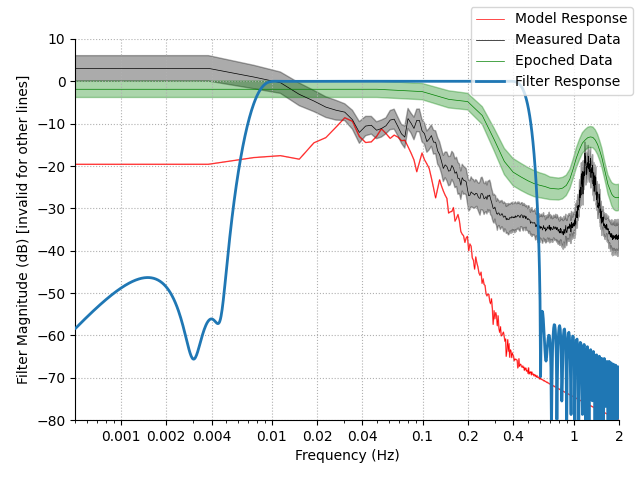
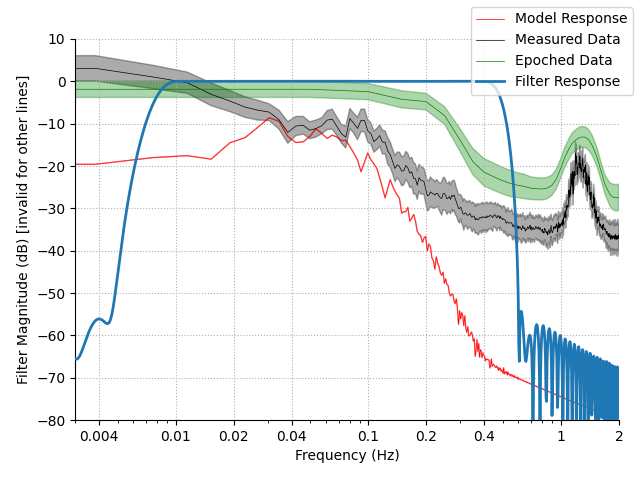
Update documentation

diff --git a/searchindex.js b/searchindex.js
@@ -1,1 +1,1 @@
-Search.setIndex({docnames:["api","auto_examples/index","auto_examples/plot_10_hrf","auto_examples/plot_20_cui","auto_examples/plot_30_frequency_summary","auto_examples/sg_execution_times","generated/mne_nirs.experimental_design.create_boxcar","generated/mne_nirs.experimental_design.create_first_level_design_matrix","generated/mne_nirs.signal_enhancement.enhance_negative_correlation","generated/mne_nirs.statistics.run_GLM","generated/mne_nirs.visualisation.plot_GLM_topo","generated/mne_nirs.visualisation.plot_nirs_source_detector","index"],envversion:{"sphinx.domains.c":1,"sphinx.domains.changeset":1,"sphinx.domains.citation":1,"sphinx.domains.cpp":1,"sphinx.domains.index":1,"sphinx.domains.javascript":1,"sphinx.domains.math":2,"sphinx.domains.python":1,"sphinx.domains.rst":1,"sphinx.domains.std":1,"sphinx.ext.intersphinx":1,"sphinx.ext.viewcode":1,sphinx:56},filenames:["api.rst","auto_examples/index.rst","auto_examples/plot_10_hrf.rst","auto_examples/plot_20_cui.rst","auto_examples/plot_30_frequency_summary.rst","auto_examples/sg_execution_times.rst","generated/mne_nirs.experimental_design.create_boxcar.rst","generated/mne_nirs.experimental_design.create_first_level_design_matrix.rst","generated/mne_nirs.signal_enhancement.enhance_negative_correlation.rst","generated/mne_nirs.statistics.run_GLM.rst","generated/mne_nirs.visualisation.plot_GLM_topo.rst","generated/mne_nirs.visualisation.plot_nirs_source_detector.rst","index.rst"],objects:{"mne_nirs.experimental_design":{create_boxcar:[6,1,1,""],create_first_level_design_matrix:[7,1,1,""]},"mne_nirs.signal_enhancement":{enhance_negative_correlation:[8,1,1,""]},"mne_nirs.statistics":{run_GLM:[9,1,1,""]},"mne_nirs.visualisation":{plot_GLM_topo:[10,1,1,""],plot_nirs_source_detector:[11,1,1,""]},mne_nirs:{experimental_design:[0,0,0,"-"],signal_enhancement:[0,0,0,"-"],statistics:[0,0,0,"-"],visualisation:[0,0,0,"-"]}},objnames:{"0":["py","module","Python module"],"1":["py","function","Python function"]},objtypes:{"0":"py:module","1":"py:function"},terms:{"0mb":2,"0x7f949b024e50":2,"1200x700":2,"120e":4,"1e6":2,"1mb":2,"2mb":2,"3mb":2,"49m":2,"5dbf84a9cfc96c000ec957eb":2,"5mb":2,"640x480":[2,4],"6mb":2,"7mb":2,"80e":3,"8mb":2,"99m":2,"9mb":2,"\u03bcm":2,"default":[2,11],"function":[0,1,4,5,6,7,8,9],"import":12,"new":[2,11],"return":[6,7,8,9,10,11],"true":[2,3,4,11],"try":[7,9,10,11],"while":6,And:2,Axes:[2,4],For:11,Near:8,Not:[3,4],One:11,The:[6,7,8,11],These:12,Use:6,Used:[2,3,4],Using:[2,4],_data:4,_subplot:2,aa3377:3,about:6,action:2,activ:[2,3,4,11],actual:[4,7],add:[2,4,12],add_reg:7,add_reg_nam:7,after:11,alia:11,all:4,also:[2,11],amplitud:2,analys:2,analysi:[1,4,5],annot:[3,4],api:[7,9,10,12],appli:[4,8],approxim:4,ar1:9,archiv:2,around:[2,4],arrai:[6,9,10,11],assist:12,attempt:2,attenu:[2,3,4],author:[2,3,4,12],auto_exampl:5,auto_tutori:4,averag:[3,4],axes:[2,3,4],axessubplot:2,axi:4,bad:[3,4],band:[2,3,4],bandpass:[2,3,4],bandwidth:[2,3,4],base:[3,4,8],baselin:[3,4],basic:[2,4],beer_lambert_law:[2,3,4],befor:4,began:2,being:2,below:[2,12],bem:11,best:[7,9,10],between:[4,8,11],bin:9,bit:4,block:2,bool:11,bottom:10,boxcar:6,brain:[4,11],bsd:[2,3,4],build:4,built:12,c4935d19ddab35422a69f3326a01fef8:2,can:[2,4,11],canon:11,causal:[2,3,4],caution:[2,6],ch_name:3,chang:6,channel:[2,3,4,6,11],chosen:11,chs:11,cite:12,claus:[2,3,4],click:[2,3,4],cmap:11,code:[2,3,4,12],codeload:12,color:[3,4],color_dict:3,colormap:11,column:[2,3],com:[2,12],combin:[3,11],commentari:[1,5],compon:4,componen:10,concentr:[2,4],condit:[2,3,4,10],conductormodel:11,configur:2,constraint:2,context:4,contigu:[2,3],contralater:2,control:[2,3,4],convert:[2,4],coord_fram:11,coordin:11,copi:[2,4],correct:[3,4],correl:8,correspond:[2,4,9,10,11],could:4,creat:[4,6],create_boxcar:2,create_filt:4,create_first_level_design_matrix:[2,4],crop:[2,4],cui:[3,8],current:2,cutoff:[2,3,4],dash:3,data:[6,7,8,9,10,11,12],data_path:[2,3,4],datafram:10,dataset:[2,3,4],deal:10,decompress:2,delet:4,dens:11,deoxygen:8,deoxyhaemoglobin:2,des:[2,4],describ:4,descript:[2,3,4],design:[3,4,7,9,10],design_matrix:[2,4,9,10],detail:4,detector:[2,11],detrend:[3,4],dev:[4,12],dict:[3,4,9,10,11],differ:[3,4,9,10],dig:11,digit:11,dipol:11,direct:2,directori:11,displai:[2,10,11],dist:[2,3],document:[2,3,6,7,12],doe:10,doi:8,domain:[2,3,4],done:11,download:[2,3,4],dpss:4,drift:2,drift_model:[2,7],drift_ord:[2,4,7],drop:[3,4],durat:[2,4],dure:4,dynam:8,each:[4,6,10],ecog:11,edg:[2,3,4],eeg:11,effect:[3,4],either:11,electrod:11,els:[2,4],empti:11,encod:3,enhanc:[1,5,8],enhance_negative_correl:3,enumer:3,environ:11,epoch:2,epochs_anti:3,equival:11,estim:4,event:[3,4,6,7],event_dict:[2,3,4],event_id:[2,3,4,6],events_from_annot:[2,3,4],everyth:4,evoked_dict:3,evoked_dict_anti:3,exactli:3,examin:4,exampl:[2,3,4,12],excel:2,execut:5,expect:[2,4],experi:[4,6,7,9],experiment:[2,4],experimental_design:[2,4],extract:2,fals:[2,3,4,11],fiduci:11,fif:11,fig:[2,3,4,10,11],figsiz:[2,3,10],figur:[2,4,10,11],file:[2,5,11],fill:4,filter:[1,2,3,5],filter_param:4,find:4,finish:2,fir:[2,3,4],fir_delai:7,first:[2,3,4,11],first_level_model:[7,9],firwin:[2,3,4],fit:4,fix:[3,4],flash:11,flim:4,fmax:4,fnir:[2,3,4,11],fnirs_data_fold:[2,3,4],fnirs_motor:[2,3,4],fnirs_raw_dir:[2,3,4],folder:11,format:3,forward:11,found:[3,4],frame:11,freesurf:11,frequenc:[1,2,3,5],from:[2,3,4,12],fscale:4,full:[2,3,4,11],further:2,fwd:11,gain:4,galleri:[1,2,3,4],gener:[2,3,4,7],get:[4,6],get_data:4,get_linestyl:4,github:[2,3,4,12],glm:[9,10],glm_estim:[2,9,10],glover:7,great:12,h_freq:4,h_trans_bandwidth:[2,3,4],hack:4,haemodynam:2,haemoglobin:[2,4,6,7,8,9,10],haeomodynam:[1,4,5],ham:[2,3,4],hand:2,hash:2,have:4,hbo:[2,3,4,8,10],hbr:[2,3,8,10],head:11,heart:4,helmet:11,hemoglobin:8,here:[2,3,4],high_pass:7,hline:2,holder:6,home:[2,3,4],how:[4,10],hrf:[2,4],hrf_model:[2,7],html:[4,12],http:[2,4,8,12],identifi:[9,10],improv:8,includ:2,increas:4,independ:7,indic:2,inflat:11,info:[2,3,4,11],inform:[2,4,6,11],infrar:[8,12],inner_skul:11,instanc:[6,7,8,9,10,11],interact:11,interplai:4,introductori:1,invalid:4,investig:3,ipynb:[2,3,4],item:[3,4],its:7,join:[2,3,4],json:2,jupyt:[2,3,4],just:[2,4,6],kei:[9,10],know:4,l_freq:4,l_trans_bandwidth:[2,3,4],label:[2,9,10],lambda:3,larger:2,largest:2,lastli:2,latest:12,layer:11,left:[2,3,4],leg_lin:4,legend:[2,4],length:[2,3,4,6,7],librari:12,licens:[2,3,4],like:[4,11],line:[4,12],linestyl:3,link:4,list:11,lister:4,load:[2,3,4,11,12],load_data:[2,3,4],loc:2,locat:[2,11],log:4,look:[2,11],low:4,lower:[2,3,4],luke:[2,3,4],magnitud:4,mai:6,mail:[2,3,4],make:7,make_first_level_design_matrix:7,mani:12,map:[9,10],master:[2,12],match:[3,4],matplotlib:[2,3],matrix:[7,9,10],mean:[2,3,4],measur:[2,11],meet:2,meg:[2,3,11],memori:2,metadata:[3,4],method:[2,3,4,8],min_onset:7,minut:[2,3,4],mne:[2,3,4,6,10,11],mne_data:[2,3,4],mne_nir:[2,3,4,12],mode:[3,4],model:[9,10,11],modifi:8,more:[4,11],motor:[2,3,4],mri:11,mri_fiduci:11,multitap:4,n_job:9,name:[2,6,11],ncol:[2,3],neg:[2,8],net:[2,3,4],neuroimag:8,new_d:[2,4],next:[2,4],nicer:4,nilearn:[2,7,9,10,12],nir:[0,3,4,8,10,11],noise_model:9,noisier:2,non:[2,3,4],none:[3,4,6,7,10,11],note:[2,4,11],notebook:[2,3,4],nrow:[2,3],number:[6,7],numpi:4,object:2,omit:11,one:[2,3,4,11],onli:[2,11],onset:[2,4],onto:11,optical_dens:[2,3,4],option:11,order:[2,11],org:8,orient:11,origin:[3,4,11],osf:2,osfstorag:2,other:[4,12],our:4,out:[2,3,4],outer_skin:11,outer_skul:11,over:2,overlai:4,oversampl:7,overview:12,overwrit:4,oxygen:8,oxyhaemoglobin:2,packag:12,pair:2,paramet:[2,3,4,6,7,8,9,10,11],particip:[2,3,4],pass:[2,3,4],passband:[2,3,4],path:[2,3,4,11],patient:2,peak:4,per:[7,11],phase:[2,3,4],pial:11,pick:[2,3,4],pick_typ:[2,3],pip:12,place:6,pleas:2,plot:[0,2,10,11],plot_10_hrf:[2,5],plot_20_cui:[3,5],plot_30_frequency_summari:[4,5],plot_70_fnirs_process:4,plot_align:11,plot_compare_evok:3,plot_design_matrix:2,plot_ev:2,plot_filt:4,plot_glm_topo:2,plot_psd:4,plt:[2,3],point:[3,4,11],polynomi:[2,7],poorli:2,posit:2,preload:[3,4],present:[4,11],process:[2,12],progress:[2,4,7,9,10],proj:[3,4],project:[3,4,11],provid:[2,11],psd:4,pyplot:[2,3],python:[2,3,4],quit:2,radiu:11,rang:2,rate:4,raw:[3,6,7,8,9,10],raw_anti:3,raw_haemo:[2,3,4],raw_intens:[2,3,4],raw_od:[2,3,4],rawnirx:2,react:4,read:[2,3,4],read_raw_nirx:[2,3,4],real:4,recommend:11,ref:11,refer:11,regist:12,regressionresult:[9,10],reject:[3,4],reject_by_annot:[3,4],reject_criteria:[3,4],relat:4,remov:[2,4,10],renam:3,rename_channel:3,repetit:4,report:2,requested_condit:[2,10],rescal:4,resourc:2,respect:11,respons:[1,5],result:[2,3],right:[2,3,4],rippl:[2,3,4],robert:[2,3,4],robertluk:[2,3,4],row:10,run:[2,3,4,6,9,12],run_glm:2,rxvq7:2,s1_d1:3,s3_d3:3,s4_d4:3,s6_d8:3,s7_d6:3,s7_d7:3,s8_d8:3,same:[2,3,4,11],sampl:[2,3,4],scalp:11,scatter:2,script:[2,3,4,12],search:11,sec:[2,3,4],second:[2,3,4],section:[3,4],see:[2,4,11,12],seeg:11,seen:2,seghead:11,segment:[2,3],sensor:11,set:[2,3,4],set_annot:[2,4],set_titl:[3,4],set_ylabel:4,sfreq:[2,4],should:[3,10,11,12],show:[2,4,11],show_ax:11,shown:11,side:2,signal:[1,5,8],signal_enhanc:3,similar:[2,4],singl:[2,11],sit:2,size:[2,4],skull:11,sof:2,solut:11,some:2,sourc:[2,3,4,6,7,8,9,10,11],source_detector_dist:[2,3],sourcespac:11,space:11,specif:[0,4],specifi:[2,6,7,9,10,11],spectroscopi:[8,12],spectrum:4,sphere:[10,11],sphinx:[1,2,3,4],spm:2,src:11,standard:2,stat:[2,7,9],statist:2,stim_dur:[2,6,7],stimuli:4,stimulu:[2,4,6,7],stopband:[2,3,4],str:11,string:11,style:3,styles_dict:3,subject:11,subjects_dir:11,subplot:[2,3],successfulli:2,summari:2,suppli:9,support:11,surfac:11,take:2,tap:[2,3,4],techniqu:[0,1,5],tend:2,text:[2,4],tgz:2,than:2,theta:2,thi:[2,3,4,6,7,9,10,12],think:[7,9,10],third:2,time:[2,3,4],tmax:[2,3,4],tmin:[3,4],todo:[4,7,10],tool:[4,12],top:[10,12],topomap:10,toppmap:2,total:[2,3,4,5],trackbal:11,tran:11,transform:11,transit:[2,3,4],translat:11,tree:2,trigger:[4,6],tut:4,tutori:[2,3,4],two:2,unit:4,until:3,updat:2,upper:[2,3,4],use:[2,4,11,12],used:[2,9,10,11],using:[2,3,4,9,11],usus:10,valu:[2,9,10,11],variabl:11,verbos:[2,3,4,9,11],verifi:2,version:[2,11,12],visualis:2,viz:[2,3,4,11],voxel:[9,10],wai:4,what:2,when:4,where:4,which:[2,4,10],white:11,wikipedia:4,window:[2,3,4],without:3,work:[2,4,7,9,10],would:4,wrapper:[2,7,9],written:2,xlabel:2,xlim:2,xscale:4,ylabel:2,ylim:3,you:12,your:[6,7,12],zero:[2,3,4],zip:12},titles:["Module API","General examples","Haeomodynamic response function analysis","Signal enhancement techniques","Frequency and Filter Commentary","Computation times","mne_nirs.experimental_design.create_boxcar","mne_nirs.experimental_design.create_first_level_design_matrix","mne_nirs.signal_enhancement.enhance_negative_correlation","mne_nirs.statistics.run_GLM","mne_nirs.visualisation.plot_GLM_topo","mne_nirs.visualisation.plot_nirs_source_detector","MNE-NIRS"],titleterms:{"function":2,"import":[2,3,4],acknowledg:12,addit:3,algorithm:3,all:2,analysi:[0,2],annot:2,api:0,appli:3,approach:3,befor:2,clean:2,commentari:4,comparison:3,comput:5,content:[2,3,4],correl:3,creat:2,create_boxcar:6,create_first_level_design_matrix:7,data:[2,3,4],design:[0,2],discuss:4,enhanc:[0,3],enhance_negative_correl:8,epoch:[3,4],estim:2,event:2,exampl:1,experi:2,experiment:0,experimental_design:[6,7],extract:3,filter:4,fit:2,frequenc:4,gener:1,glm:2,haeomodynam:2,instal:12,matrix:2,measur:4,mne:12,mne_nir:[6,7,8,9,10,11],model:4,modul:0,neg:3,neural:4,nir:[2,12],page:[2,3,4],plot:[3,4],plot_glm_topo:10,plot_nirs_source_detector:11,preprocess:[2,3,4],process:3,raw:[2,4],respons:[2,4],resufvlt:2,run_glm:9,sensor:2,signal:[0,3],signal_enhanc:8,statist:[0,9],techniqu:3,time:5,two:3,usag:12,view:2,visualis:[0,10,11]}})
+Search.setIndex({docnames:["api","auto_examples/index","auto_examples/plot_10_hrf","auto_examples/plot_20_cui","auto_examples/plot_30_frequency_summary","auto_examples/sg_execution_times","generated/mne_nirs.experimental_design.create_boxcar","generated/mne_nirs.experimental_design.create_first_level_design_matrix","generated/mne_nirs.signal_enhancement.enhance_negative_correlation","generated/mne_nirs.statistics.run_GLM","generated/mne_nirs.visualisation.plot_GLM_topo","generated/mne_nirs.visualisation.plot_nirs_source_detector","index"],envversion:{"sphinx.domains.c":1,"sphinx.domains.changeset":1,"sphinx.domains.citation":1,"sphinx.domains.cpp":1,"sphinx.domains.index":1,"sphinx.domains.javascript":1,"sphinx.domains.math":2,"sphinx.domains.python":1,"sphinx.domains.rst":1,"sphinx.domains.std":1,"sphinx.ext.intersphinx":1,"sphinx.ext.viewcode":1,sphinx:56},filenames:["api.rst","auto_examples/index.rst","auto_examples/plot_10_hrf.rst","auto_examples/plot_20_cui.rst","auto_examples/plot_30_frequency_summary.rst","auto_examples/sg_execution_times.rst","generated/mne_nirs.experimental_design.create_boxcar.rst","generated/mne_nirs.experimental_design.create_first_level_design_matrix.rst","generated/mne_nirs.signal_enhancement.enhance_negative_correlation.rst","generated/mne_nirs.statistics.run_GLM.rst","generated/mne_nirs.visualisation.plot_GLM_topo.rst","generated/mne_nirs.visualisation.plot_nirs_source_detector.rst","index.rst"],objects:{"mne_nirs.experimental_design":{create_boxcar:[6,1,1,""],create_first_level_design_matrix:[7,1,1,""]},"mne_nirs.signal_enhancement":{enhance_negative_correlation:[8,1,1,""]},"mne_nirs.statistics":{run_GLM:[9,1,1,""]},"mne_nirs.visualisation":{plot_GLM_topo:[10,1,1,""],plot_nirs_source_detector:[11,1,1,""]},mne_nirs:{experimental_design:[0,0,0,"-"],signal_enhancement:[0,0,0,"-"],statistics:[0,0,0,"-"],visualisation:[0,0,0,"-"]}},objnames:{"0":["py","module","Python module"],"1":["py","function","Python function"]},objtypes:{"0":"py:module","1":"py:function"},terms:{"0mb":2,"0x7ff1b6d85370":2,"1200x700":2,"120e":4,"1e6":2,"1mb":2,"2mb":2,"3mb":2,"49m":2,"4mb":2,"5dbf84a9cfc96c000ec957eb":2,"5mb":2,"640x480":[2,4],"6mb":2,"7mb":2,"80e":3,"8mb":2,"99m":2,"9mb":2,"\u03bcm":2,"default":[2,11],"function":[0,1,4,5,6,7,8,9],"import":12,"new":[2,11],"return":[6,7,8,9,10,11],"true":[2,3,4,11],"try":[7,9,10,11],"while":6,And:2,Axes:[2,4],For:11,Near:8,Not:[3,4],One:11,The:[6,7,8,11],These:12,Use:6,Used:[2,3,4],Using:[2,4],_data:4,_subplot:2,aa3377:3,about:6,action:2,activ:[2,3,4,11],actual:[4,7],add:[2,4,12],add_reg:7,add_reg_nam:7,after:11,alia:11,all:4,also:[2,11],amplitud:2,analys:2,analysi:[1,4,5],annot:[3,4],api:[7,9,10,12],appli:[4,8],approxim:4,ar1:9,archiv:2,around:[2,4],arrai:[6,9,10,11],assist:12,attempt:2,attenu:[2,3,4],author:[2,3,4,12],auto_exampl:5,auto_tutori:4,averag:[3,4],axes:[2,3,4],axessubplot:2,axi:4,bad:[3,4],band:[2,3,4],bandpass:[2,3,4],bandwidth:[2,3,4],base:[3,4,8],baselin:[3,4],basic:[2,4],beer_lambert_law:[2,3,4],befor:4,began:2,being:2,below:[2,12],bem:11,best:[7,9,10],between:[4,8,11],bin:9,bit:4,block:2,bool:11,bottom:10,boxcar:6,brain:[4,11],bsd:[2,3,4],build:4,built:12,c4935d19ddab35422a69f3326a01fef8:2,can:[2,4,11],canon:11,causal:[2,3,4],caution:[2,6],ch_name:3,chang:6,channel:[2,3,4,6,11],chosen:11,chs:11,cite:12,claus:[2,3,4],click:[2,3,4],cmap:11,code:[2,3,4,12],codeload:12,color:[3,4],color_dict:3,colormap:11,column:[2,3],com:[2,12],combin:[3,11],commentari:[1,5],compon:4,componen:10,concentr:[2,4],condit:[2,3,4,10],conductormodel:11,configur:2,constraint:2,context:4,contigu:[2,3],contralater:2,control:[2,3,4],convert:[2,4],coord_fram:11,coordin:11,copi:[2,4],correct:[3,4],correl:8,correspond:[2,4,9,10,11],could:4,creat:[4,6],create_boxcar:2,create_filt:4,create_first_level_design_matrix:[2,4],crop:[2,4],cui:[3,8],current:2,cutoff:[2,3,4],dash:3,data:[6,7,8,9,10,11,12],data_path:[2,3,4],datafram:10,dataset:[2,3,4],deal:10,decompress:2,delet:4,dens:11,deoxygen:8,deoxyhaemoglobin:2,des:[2,4],describ:4,descript:[2,3,4],design:[3,4,7,9,10],design_matrix:[2,4,9,10],detail:4,detector:[2,11],detrend:[3,4],dev:[4,12],dict:[3,4,9,10,11],differ:[3,4,9,10],dig:11,digit:11,dipol:11,direct:2,directori:11,displai:[2,10,11],dist:[2,3],document:[2,3,6,7,12],doe:10,doi:8,domain:[2,3,4],done:11,download:[2,3,4],dpss:4,drift:2,drift_model:[2,7],drift_ord:[2,4,7],drop:[3,4],durat:[2,4],dure:4,dynam:8,each:[4,6,10],ecog:11,edg:[2,3,4],eeg:11,effect:[3,4],either:11,electrod:11,els:[2,4],empti:11,encod:3,enhanc:[1,5,8],enhance_negative_correl:3,enumer:3,environ:11,epoch:2,epochs_anti:3,equival:11,estim:4,event:[3,4,6,7],event_dict:[2,3,4],event_id:[2,3,4,6],events_from_annot:[2,3,4],everyth:4,evoked_dict:3,evoked_dict_anti:3,exactli:3,examin:4,exampl:[2,3,4,12],excel:2,execut:5,expect:[2,4],experi:[4,6,7,9],experiment:[2,4],experimental_design:[2,4],extract:2,fals:[2,3,4,11],fiduci:11,fif:11,fig:[2,3,4,10,11],figsiz:[2,3,10],figur:[2,4,10,11],file:[2,5,11],fill:4,filter:[1,2,3,5],filter_param:4,find:4,finish:2,fir:[2,3,4],fir_delai:7,first:[2,3,4,11],first_level_model:[7,9],firwin:[2,3,4],fit:4,fix:[3,4],flash:11,flim:4,fmax:4,fnir:[2,3,4,11],fnirs_data_fold:[2,3,4],fnirs_motor:[2,3,4],fnirs_raw_dir:[2,3,4],folder:11,format:3,forward:11,found:[3,4],frame:11,freesurf:11,frequenc:[1,2,3,5],from:[2,3,4,12],fscale:4,full:[2,3,4,11],further:2,fwd:11,gain:4,galleri:[1,2,3,4],gener:[2,3,4,7],get:[4,6],get_data:4,get_linestyl:4,github:[2,3,4,12],glm:[9,10],glm_estim:[2,9,10],glover:7,great:12,h_freq:4,h_trans_bandwidth:[2,3,4],hack:4,haemodynam:2,haemoglobin:[2,4,6,7,8,9,10],haeomodynam:[1,4,5],ham:[2,3,4],hand:2,hash:2,have:4,hbo:[2,3,4,8,10],hbr:[2,3,8,10],head:11,heart:4,helmet:11,hemoglobin:8,here:[2,3,4],high_pass:7,hline:2,holder:6,home:[2,3,4],how:[4,10],hrf:[2,4],hrf_model:[2,7],html:[4,12],http:[2,4,8,12],identifi:[9,10],improv:8,includ:2,increas:4,independ:7,indic:2,inflat:11,info:[2,3,4,11],inform:[2,4,6,11],infrar:[8,12],inner_skul:11,instanc:[6,7,8,9,10,11],interact:11,interplai:4,introductori:1,invalid:4,investig:3,ipynb:[2,3,4],item:[3,4],its:7,join:[2,3,4],json:2,jupyt:[2,3,4],just:[2,4,6],kei:[9,10],know:4,l_freq:4,l_trans_bandwidth:[2,3,4],label:[2,9,10],lambda:3,larger:2,largest:2,lastli:2,latest:12,layer:11,left:[2,3,4],leg_lin:4,legend:[2,4],length:[2,3,4,6,7],librari:12,licens:[2,3,4],like:[4,11],line:[4,12],linestyl:3,link:4,list:11,lister:4,load:[2,3,4,11,12],load_data:[2,3,4],loc:2,locat:[2,11],log:4,look:[2,11],low:4,lower:[2,3,4],luke:[2,3,4],magnitud:4,mai:6,mail:[2,3,4],make:7,make_first_level_design_matrix:7,mani:12,map:[9,10],master:[2,12],match:[3,4],matplotlib:[2,3],matrix:[7,9,10],mean:[2,3,4],measur:[2,11],meet:2,meg:[2,3,11],memori:2,metadata:[3,4],method:[2,3,4,8],min_onset:7,minut:[2,3,4],mne:[2,3,4,6,10,11],mne_data:[2,3,4],mne_nir:[2,3,4,12],mode:[3,4],model:[9,10,11],modifi:8,more:[4,11],motor:[2,3,4],mri:11,mri_fiduci:11,multitap:4,n_job:9,name:[2,6,11],ncol:[2,3],neg:[2,8],net:[2,3,4],neuroimag:8,new_d:[2,4],next:[2,4],nicer:4,nilearn:[2,7,9,10,12],nir:[0,3,4,8,10,11],noise_model:9,noisier:2,non:[2,3,4],none:[3,4,6,7,10,11],note:[2,4,11],notebook:[2,3,4],nrow:[2,3],number:[6,7],numpi:4,object:2,omit:11,one:[2,3,4,11],onli:[2,11],onset:[2,4],onto:11,optical_dens:[2,3,4],option:11,order:[2,11],org:8,orient:11,origin:[3,4,11],osf:2,osfstorag:2,other:[4,12],our:4,out:[2,3,4],outer_skin:11,outer_skul:11,over:2,overlai:4,oversampl:7,overview:12,overwrit:4,oxygen:8,oxyhaemoglobin:2,packag:12,pair:2,paramet:[2,3,4,6,7,8,9,10,11],particip:[2,3,4],pass:[2,3,4],passband:[2,3,4],path:[2,3,4,11],patient:2,peak:4,per:[7,11],phase:[2,3,4],pial:11,pick:[2,3,4],pick_typ:[2,3],pip:12,place:6,pleas:2,plot:[0,2,10,11],plot_10_hrf:[2,5],plot_20_cui:[3,5],plot_30_frequency_summari:[4,5],plot_70_fnirs_process:4,plot_align:11,plot_compare_evok:3,plot_design_matrix:2,plot_ev:2,plot_filt:4,plot_glm_topo:2,plot_psd:4,plt:[2,3],point:[3,4,11],polynomi:[2,7],poorli:2,posit:2,preload:[3,4],present:[4,11],process:[2,12],progress:[2,4,7,9,10],proj:[3,4],project:[3,4,11],provid:[2,11],psd:4,pyplot:[2,3],python:[2,3,4],quit:2,radiu:11,rang:2,rate:4,raw:[3,6,7,8,9,10],raw_anti:3,raw_haemo:[2,3,4],raw_intens:[2,3,4],raw_od:[2,3,4],rawnirx:2,react:4,read:[2,3,4],read_raw_nirx:[2,3,4],real:4,recommend:11,ref:11,refer:11,regist:12,regressionresult:[9,10],reject:[3,4],reject_by_annot:[3,4],reject_criteria:[3,4],relat:4,remov:[2,4,10],renam:3,rename_channel:3,repetit:4,report:2,requested_condit:[2,10],rescal:4,resourc:2,respect:11,respons:[1,5],result:[2,3],right:[2,3,4],rippl:[2,3,4],robert:[2,3,4],robertluk:[2,3,4],row:10,run:[2,3,4,6,9,12],run_glm:2,rxvq7:2,s1_d1:3,s3_d3:3,s4_d4:3,s6_d8:3,s7_d6:3,s7_d7:3,s8_d8:3,same:[2,3,4,11],sampl:[2,3,4],scalp:11,scatter:2,script:[2,3,4,12],search:11,sec:[2,3,4],second:[2,3,4],section:[3,4],see:[2,4,11,12],seeg:11,seen:2,seghead:11,segment:[2,3],sensor:11,set:[2,3,4],set_annot:[2,4],set_titl:[3,4],set_ylabel:4,sfreq:[2,4],should:[3,10,11,12],show:[2,4,11],show_ax:11,shown:11,side:2,signal:[1,5,8],signal_enhanc:3,similar:[2,4],singl:[2,11],sit:2,size:[2,4],skull:11,sof:2,solut:11,some:2,sourc:[2,3,4,6,7,8,9,10,11],source_detector_dist:[2,3],sourcespac:11,space:11,specif:[0,4],specifi:[2,6,7,9,10,11],spectroscopi:[8,12],spectrum:4,sphere:[10,11],sphinx:[1,2,3,4],spm:2,src:11,standard:2,stat:[2,7,9],statist:2,stim_dur:[2,6,7],stimuli:4,stimulu:[2,4,6,7],stopband:[2,3,4],str:11,string:11,style:3,styles_dict:3,subject:11,subjects_dir:11,subplot:[2,3],successfulli:2,summari:2,suppli:9,support:11,surfac:11,take:2,tap:[2,3,4],techniqu:[0,1,5],tend:2,text:[2,4],tgz:2,than:2,theta:2,thi:[2,3,4,6,7,9,10,12],think:[7,9,10],third:2,time:[2,3,4],tmax:[2,3,4],tmin:[3,4],todo:[4,7,10],tool:[4,12],top:[10,12],topomap:10,toppmap:2,total:[2,3,4,5],trackbal:11,tran:11,transform:11,transit:[2,3,4],translat:11,tree:2,trigger:[4,6],tut:4,tutori:[2,3,4],two:2,unit:4,until:3,updat:2,upper:[2,3,4],use:[2,4,11,12],used:[2,9,10,11],using:[2,3,4,9,11],usus:10,valu:[2,9,10,11],variabl:11,verbos:[2,3,4,9,11],verifi:2,version:[2,11,12],visualis:2,viz:[2,3,4,11],voxel:[9,10],wai:4,what:2,when:4,where:4,which:[2,4,10],white:11,wikipedia:4,window:[2,3,4],without:3,work:[2,4,7,9,10],would:4,wrapper:[2,7,9],written:2,xlabel:2,xlim:2,xscale:4,ylabel:2,ylim:3,you:12,your:[6,7,12],zero:[2,3,4],zip:12},titles:["Module API","General examples","Haeomodynamic response function analysis","Signal enhancement techniques","Frequency and Filter Commentary","Computation times","mne_nirs.experimental_design.create_boxcar","mne_nirs.experimental_design.create_first_level_design_matrix","mne_nirs.signal_enhancement.enhance_negative_correlation","mne_nirs.statistics.run_GLM","mne_nirs.visualisation.plot_GLM_topo","mne_nirs.visualisation.plot_nirs_source_detector","MNE-NIRS"],titleterms:{"function":2,"import":[2,3,4],acknowledg:12,addit:3,algorithm:3,all:2,analysi:[0,2],annot:2,api:0,appli:3,approach:3,befor:2,clean:2,commentari:4,comparison:3,comput:5,content:[2,3,4],correl:3,creat:2,create_boxcar:6,create_first_level_design_matrix:7,data:[2,3,4],design:[0,2],discuss:4,enhanc:[0,3],enhance_negative_correl:8,epoch:[3,4],estim:2,event:2,exampl:1,experi:2,experiment:0,experimental_design:[6,7],extract:3,filter:4,fit:2,frequenc:4,gener:1,glm:2,haeomodynam:2,instal:12,matrix:2,measur:4,mne:12,mne_nir:[6,7,8,9,10,11],model:4,modul:0,neg:3,neural:4,nir:[2,12],page:[2,3,4],plot:[3,4],plot_glm_topo:10,plot_nirs_source_detector:11,preprocess:[2,3,4],process:3,raw:[2,4],respons:[2,4],resufvlt:2,run_glm:9,sensor:2,signal:[0,3],signal_enhanc:8,statist:[0,9],techniqu:3,time:5,two:3,usag:12,view:2,visualis:[0,10,11]}})

diff --git a/auto_examples/plot_30_frequency_summary.html b/auto_examples/plot_30_frequency_summary.html
@@ -310,7 +310,7 @@ different components relate.</p>
 <span class="n">epochs</span><span class="o">.</span><span class="n">pick</span><span class="p">(</span><span class="n">picks</span><span class="o">=</span><span class="s1">&#39;hbo&#39;</span><span class="p">)</span><span class="o">.</span><span class="n">plot_psd</span><span class="p">(</span><span class="n">average</span><span class="o">=</span><span class="kc">True</span><span class="p">,</span> <span class="n">fmax</span><span class="o">=</span><span class="mi">2</span><span class="p">,</span> <span class="n">ax</span><span class="o">=</span><a href="https://matplotlib.org/api/_as_gen/matplotlib.figure.Figure.html#matplotlib.figure.Figure.axes" title="matplotlib.figure.Figure.axes" class="sphx-glr-backref-module-matplotlib-figure sphx-glr-backref-type-py-method"><span class="n">fig</span><span class="o">.</span><span class="n">axes</span></a><span class="p">,</span>
                                         <span class="n">show</span><span class="o">=</span><span class="kc">False</span><span class="p">,</span> <span class="n">color</span><span class="o">=</span><span class="s1">&#39;g&#39;</span><span class="p">)</span>
 <span class="n">mne</span><span class="o">.</span><span class="n">viz</span><span class="o">.</span><span class="n">plot_filter</span><span class="p">(</span><a href="https://docs.scipy.org/doc/numpy/reference/generated/numpy.ndarray.html#numpy.ndarray" title="numpy.ndarray" class="sphx-glr-backref-module-numpy sphx-glr-backref-type-py-class sphx-glr-backref-instance"><span class="n">filter_params</span></a><span class="p">,</span> <span class="n">raw_haemo</span><span class="o">.</span><span class="n">info</span><span class="p">[</span><span class="s1">&#39;sfreq&#39;</span><span class="p">],</span>
-                          <span class="n">flim</span><span class="o">=</span><span class="p">(</span><span class="mf">0.0005</span><span class="p">,</span> <span class="mi">2</span><span class="p">),</span> <span class="n">fscale</span><span class="o">=</span><span class="s1">&#39;log&#39;</span><span class="p">,</span> <span class="n">gain</span><span class="o">=</span><span class="kc">False</span><span class="p">,</span>
+                          <span class="n">flim</span><span class="o">=</span><span class="p">(</span><span class="mf">0.003</span><span class="p">,</span> <span class="mi">2</span><span class="p">),</span> <span class="n">fscale</span><span class="o">=</span><span class="s1">&#39;log&#39;</span><span class="p">,</span> <span class="n">gain</span><span class="o">=</span><span class="kc">False</span><span class="p">,</span>
                           <span class="n">plot</span><span class="o">=</span><span class="s1">&#39;magnitude&#39;</span><span class="p">,</span> <span class="n">axes</span><span class="o">=</span><a href="https://matplotlib.org/api/_as_gen/matplotlib.figure.Figure.html#matplotlib.figure.Figure.axes" title="matplotlib.figure.Figure.axes" class="sphx-glr-backref-module-matplotlib-figure sphx-glr-backref-type-py-method"><span class="n">fig</span><span class="o">.</span><span class="n">axes</span></a><span class="p">,</span> <span class="n">show</span><span class="o">=</span><span class="kc">False</span><span class="p">)</span>
 
 <a href="https://docs.python.org/3/library/stdtypes.html#list" title="builtins.list" class="sphx-glr-backref-module-builtins sphx-glr-backref-type-py-class sphx-glr-backref-instance"><span class="n">leg_lines</span></a> <span class="o">=</span> <span class="p">[</span><span class="n">line</span> <span class="k">for</span> <span class="n">line</span> <span class="ow">in</span> <a href="https://matplotlib.org/api/_as_gen/matplotlib.figure.Figure.html#matplotlib.figure.Figure.axes" title="matplotlib.figure.Figure.axes" class="sphx-glr-backref-module-matplotlib-figure sphx-glr-backref-type-py-method"><span class="n">fig</span><span class="o">.</span><span class="n">axes</span></a><span class="p">[</span><span class="mi">0</span><span class="p">]</span><span class="o">.</span><span class="n">lines</span> <span class="k">if</span> <span class="n">line</span><span class="o">.</span><span class="n">get_linestyle</span><span class="p">()</span> <span class="o">==</span> <span class="s1">&#39;-&#39;</span><span class="p">]</span>
@@ -329,7 +329,7 @@ Effective window size : 262.144 (s)
 Text(0.5, 1.0, &#39;&#39;)
 </pre></div>
 </div>
-<p class="sphx-glr-timing"><strong>Total running time of the script:</strong> ( 0 minutes  11.835 seconds)</p>
+<p class="sphx-glr-timing"><strong>Total running time of the script:</strong> ( 0 minutes  13.202 seconds)</p>
 <div class="sphx-glr-footer class sphx-glr-footer-example docutils container" id="sphx-glr-download-auto-examples-plot-30-frequency-summary-py">
 <div class="sphx-glr-download sphx-glr-download-python docutils container">
 <p><a class="reference download internal" download="" href="../_downloads/716799dfb1f4812dbf7a7ab6e7d18e47/plot_30_frequency_summary.py"><code class="xref download docutils literal notranslate"><span class="pre">Download</span> <span class="pre">Python</span> <span class="pre">source</span> <span class="pre">code:</span> <span class="pre">plot_30_frequency_summary.py</span></code></a></p>

diff --git a/auto_examples/plot_10_hrf.html b/auto_examples/plot_10_hrf.html
@@ -171,24 +171,24 @@ Downloading archive MNE-fNIRS-motor-data.tgz to /github/home/mne_data
 Downloading https://files.osf.io/v1/resources/rxvq7/providers/osfstorage/5dbf84a9cfc96c000ec957eb?version=1&amp;action=download&amp;direct (17.1 MB)
 
   0%|          | Downloading : 0.00/17.1M [00:00&lt;?,        ?B/s]
-  6%|5         | Downloading : 0.99M/17.1M [00:00&lt;00:00,    38.5MB/s]
- 15%|#4        | Downloading : 2.49M/17.1M [00:00&lt;00:00,    38.0MB/s]
- 20%|##        | Downloading : 3.49M/17.1M [00:00&lt;00:00,    35.7MB/s]
- 26%|##6       | Downloading : 4.49M/17.1M [00:00&lt;00:00,    33.8MB/s]
- 32%|###2      | Downloading : 5.49M/17.1M [00:00&lt;00:00,    32.7MB/s]
- 38%|###8      | Downloading : 6.49M/17.1M [00:00&lt;00:00,    31.8MB/s]
- 44%|####3     | Downloading : 7.49M/17.1M [00:00&lt;00:00,    30.5MB/s]
- 50%|####9     | Downloading : 8.49M/17.1M [00:00&lt;00:00,    29.2MB/s]
- 56%|#####5    | Downloading : 9.49M/17.1M [00:00&lt;00:00,    28.1MB/s]
- 62%|######1   | Downloading : 10.5M/17.1M [00:00&lt;00:00,    27.1MB/s]
- 67%|######7   | Downloading : 11.5M/17.1M [00:00&lt;00:00,    26.3MB/s]
- 73%|#######3  | Downloading : 12.5M/17.1M [00:00&lt;00:00,    25.9MB/s]
- 79%|#######9  | Downloading : 13.5M/17.1M [00:00&lt;00:00,    25.6MB/s]
- 85%|########4 | Downloading : 14.5M/17.1M [00:00&lt;00:00,    24.8MB/s]
- 91%|######### | Downloading : 15.5M/17.1M [00:00&lt;00:00,    24.1MB/s]
- 97%|#########6| Downloading : 16.5M/17.1M [00:00&lt;00:00,    23.7MB/s]
-100%|##########| Downloading : 17.1M/17.1M [00:00&lt;00:00,    23.0MB/s]
-100%|##########| Downloading : 17.1M/17.1M [00:00&lt;00:00,    18.6MB/s]
+  6%|5         | Downloading : 0.99M/17.1M [00:00&lt;00:00,    33.1MB/s]
+ 12%|#1        | Downloading : 1.99M/17.1M [00:00&lt;00:00,    33.2MB/s]
+ 20%|##        | Downloading : 3.49M/17.1M [00:00&lt;00:00,    33.9MB/s]
+ 26%|##6       | Downloading : 4.49M/17.1M [00:00&lt;00:00,    34.0MB/s]
+ 32%|###2      | Downloading : 5.49M/17.1M [00:00&lt;00:00,    34.2MB/s]
+ 38%|###8      | Downloading : 6.49M/17.1M [00:00&lt;00:00,    34.3MB/s]
+ 44%|####3     | Downloading : 7.49M/17.1M [00:00&lt;00:00,    34.0MB/s]
+ 50%|####9     | Downloading : 8.49M/17.1M [00:00&lt;00:00,    34.5MB/s]
+ 56%|#####5    | Downloading : 9.49M/17.1M [00:00&lt;00:00,    34.2MB/s]
+ 62%|######1   | Downloading : 10.5M/17.1M [00:00&lt;00:00,    34.9MB/s]
+ 67%|######7   | Downloading : 11.5M/17.1M [00:00&lt;00:00,    35.2MB/s]
+ 73%|#######3  | Downloading : 12.5M/17.1M [00:00&lt;00:00,    35.2MB/s]
+ 79%|#######9  | Downloading : 13.5M/17.1M [00:00&lt;00:00,    35.5MB/s]
+ 85%|########4 | Downloading : 14.5M/17.1M [00:00&lt;00:00,    35.6MB/s]
+ 91%|######### | Downloading : 15.5M/17.1M [00:00&lt;00:00,    35.7MB/s]
+ 97%|#########6| Downloading : 16.5M/17.1M [00:00&lt;00:00,    35.5MB/s]
+100%|##########| Downloading : 17.1M/17.1M [00:00&lt;00:00,    35.4MB/s]
+100%|##########| Downloading : 17.1M/17.1M [00:00&lt;00:00,    37.8MB/s]
 Verifying hash c4935d19ddab35422a69f3326a01fef8.
 Decompressing the archive: /github/home/mne_data/MNE-fNIRS-motor-data.tgz
 (please be patient, this can take some time)
@@ -303,7 +303,7 @@ using standard Nilearn reporting functions.</p>
 </div>
 <img alt="../_images/sphx_glr_plot_10_hrf_003.png" class="sphx-glr-single-img" src="../_images/sphx_glr_plot_10_hrf_003.png" />
 <p class="sphx-glr-script-out">Out:</p>
-<div class="sphx-glr-script-out highlight-none notranslate"><div class="highlight"><pre><span></span>&lt;matplotlib.axes._subplots.AxesSubplot object at 0x7f949b024e50&gt;
+<div class="sphx-glr-script-out highlight-none notranslate"><div class="highlight"><pre><span></span>&lt;matplotlib.axes._subplots.AxesSubplot object at 0x7ff1b6d85370&gt;
 </pre></div>
 </div>
 <p>And we can also look at a single experimental condition.</p>
@@ -369,7 +369,7 @@ negative sof HbO as expected.</p>
 <div class="sphx-glr-script-out highlight-none notranslate"><div class="highlight"><pre><span></span>&lt;Figure size 1200x700 with 4 Axes&gt;
 </pre></div>
 </div>
-<p class="sphx-glr-timing"><strong>Total running time of the script:</strong> ( 1 minutes  38.610 seconds)</p>
+<p class="sphx-glr-timing"><strong>Total running time of the script:</strong> ( 1 minutes  45.355 seconds)</p>
 <div class="sphx-glr-footer class sphx-glr-footer-example docutils container" id="sphx-glr-download-auto-examples-plot-10-hrf-py">
 <div class="sphx-glr-download sphx-glr-download-python docutils container">
 <p><a class="reference download internal" download="" href="../_downloads/5d7784c7a4d7e581cc48ca0671986fdb/plot_10_hrf.py"><code class="xref download docutils literal notranslate"><span class="pre">Download</span> <span class="pre">Python</span> <span class="pre">source</span> <span class="pre">code:</span> <span class="pre">plot_10_hrf.py</span></code></a></p>

diff --git a/auto_examples/sg_execution_times.html b/auto_examples/sg_execution_times.html
@@ -104,7 +104,7 @@
       
   <div class="section" id="computation-times">
 <span id="sphx-glr-auto-examples-sg-execution-times"></span><h1>Computation times<a class="headerlink" href="#computation-times" title="Permalink to this headline">¶</a></h1>
-<p><strong>01:53.292</strong> total execution time for <strong>auto_examples</strong> files:</p>
+<p><strong>02:01.299</strong> total execution time for <strong>auto_examples</strong> files:</p>
 <table class="docutils align-default">
 <colgroup>
 <col style="width: 83%" />
@@ -113,15 +113,15 @@
 </colgroup>
 <tbody>
 <tr class="row-odd"><td><p><a class="reference internal" href="plot_10_hrf.html#sphx-glr-auto-examples-plot-10-hrf-py"><span class="std std-ref">Haeomodynamic response function analysis</span></a> (<code class="docutils literal notranslate"><span class="pre">plot_10_hrf.py</span></code>)</p></td>
-<td><p>01:38.610</p></td>
+<td><p>01:45.355</p></td>
 <td><p>0.0 MB</p></td>
 </tr>
 <tr class="row-even"><td><p><a class="reference internal" href="plot_30_frequency_summary.html#sphx-glr-auto-examples-plot-30-frequency-summary-py"><span class="std std-ref">Frequency and Filter Commentary</span></a> (<code class="docutils literal notranslate"><span class="pre">plot_30_frequency_summary.py</span></code>)</p></td>
-<td><p>00:11.835</p></td>
+<td><p>00:13.202</p></td>
 <td><p>0.0 MB</p></td>
 </tr>
 <tr class="row-odd"><td><p><a class="reference internal" href="plot_20_cui.html#sphx-glr-auto-examples-plot-20-cui-py"><span class="std std-ref">Signal enhancement techniques</span></a> (<code class="docutils literal notranslate"><span class="pre">plot_20_cui.py</span></code>)</p></td>
-<td><p>00:02.847</p></td>
+<td><p>00:02.742</p></td>
 <td><p>0.0 MB</p></td>
 </tr>
 </tbody>

diff --git a/auto_examples/plot_20_cui.html b/auto_examples/plot_20_cui.html
@@ -282,7 +282,7 @@ combining channels using &quot;mean&quot;
 combining channels using &quot;mean&quot;
 </pre></div>
 </div>
-<p class="sphx-glr-timing"><strong>Total running time of the script:</strong> ( 0 minutes  2.847 seconds)</p>
+<p class="sphx-glr-timing"><strong>Total running time of the script:</strong> ( 0 minutes  2.742 seconds)</p>
 <div class="sphx-glr-footer class sphx-glr-footer-example docutils container" id="sphx-glr-download-auto-examples-plot-20-cui-py">
 <div class="sphx-glr-download sphx-glr-download-python docutils container">
 <p><a class="reference download internal" download="" href="../_downloads/8004bd8d0571541b1596a2bb003de455/plot_20_cui.py"><code class="xref download docutils literal notranslate"><span class="pre">Download</span> <span class="pre">Python</span> <span class="pre">source</span> <span class="pre">code:</span> <span class="pre">plot_20_cui.py</span></code></a></p>

diff --git a/_downloads/716799dfb1f4812dbf7a7ab6e7d18e47/plot_30_frequency_summary.py b/_downloads/716799dfb1f4812dbf7a7ab6e7d18e47/plot_30_frequency_summary.py
@@ -167,7 +167,7 @@ raw_haemo.pick(picks='hbo').plot_psd(average=True, fmax=2,
 epochs.pick(picks='hbo').plot_psd(average=True, fmax=2, ax=fig.axes,
                                         show=False, color='g')
 mne.viz.plot_filter(filter_params, raw_haemo.info['sfreq'],
-                          flim=(0.0005, 2), fscale='log', gain=False,
+                          flim=(0.003, 2), fscale='log', gain=False,
                           plot='magnitude', axes=fig.axes, show=False)
 
 leg_lines = [line for line in fig.axes[0].lines if line.get_linestyle() == '-']
